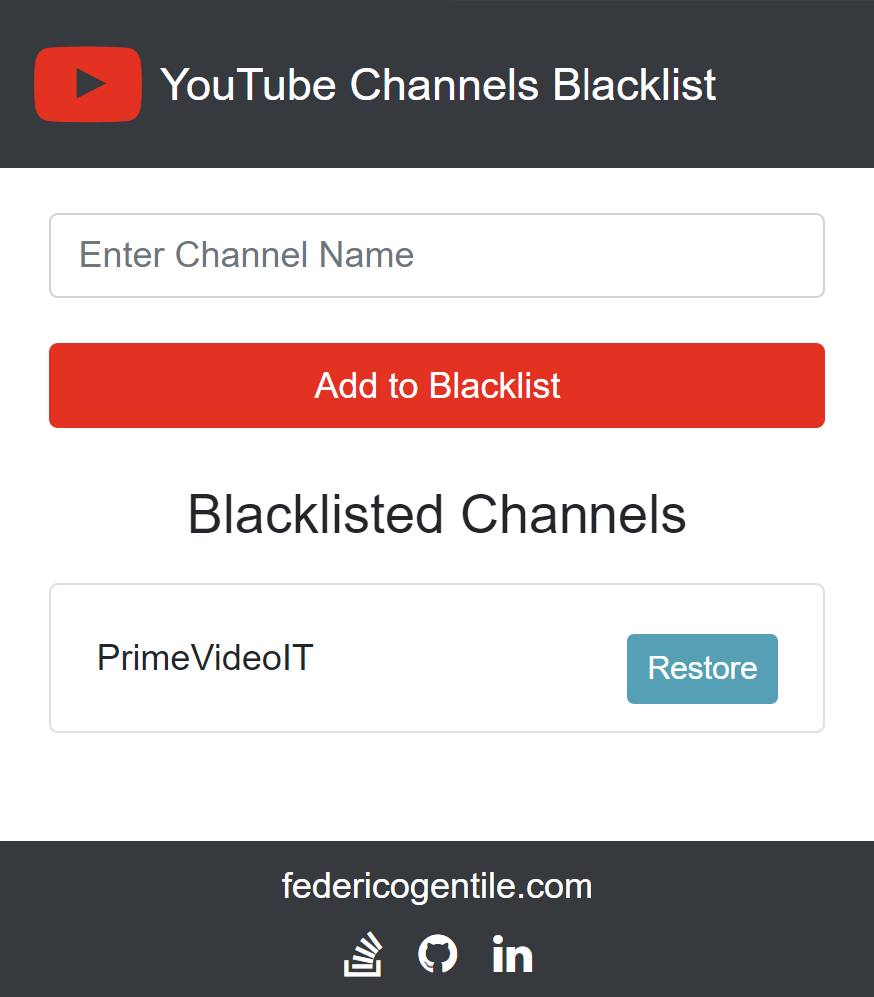
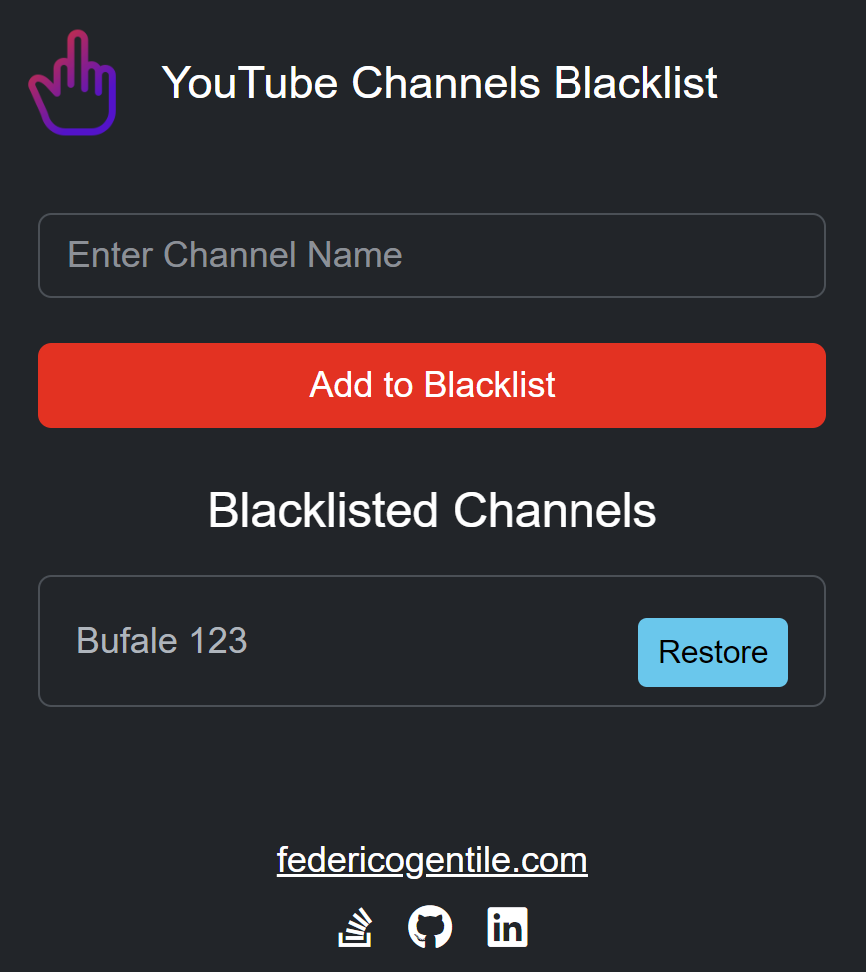
Updated thumbnail

diff --git a/popup.html b/popup.html
@@ -14,7 +14,9 @@
 	<!-- Navbar: image and text -->
 <nav class="navbar navbar-dark bg-dark">
   <a class="navbar-brand d-flex align-items-center" href="#">
-    <i class="fa fa-hand-middle-finger" style="font-size:48px;color:red;padding-left:10px;padding-right:15px;"></i>
+    <!-- Add image to the navbar -->
+    <img src="./img/icon_128.png" style="width:20%;padding-left:10px;padding-right:15px;">
+    <!--i class="fa fa-hand-middle-finger" style="font-size:48px;color:red;padding-left:10px;padding-right:15px;"></i-->
     <!-- Add span title and align it in the middle height of the navbar -->
     <span class="ml-2">YouTube Channels Blacklist</span>
   </a>
